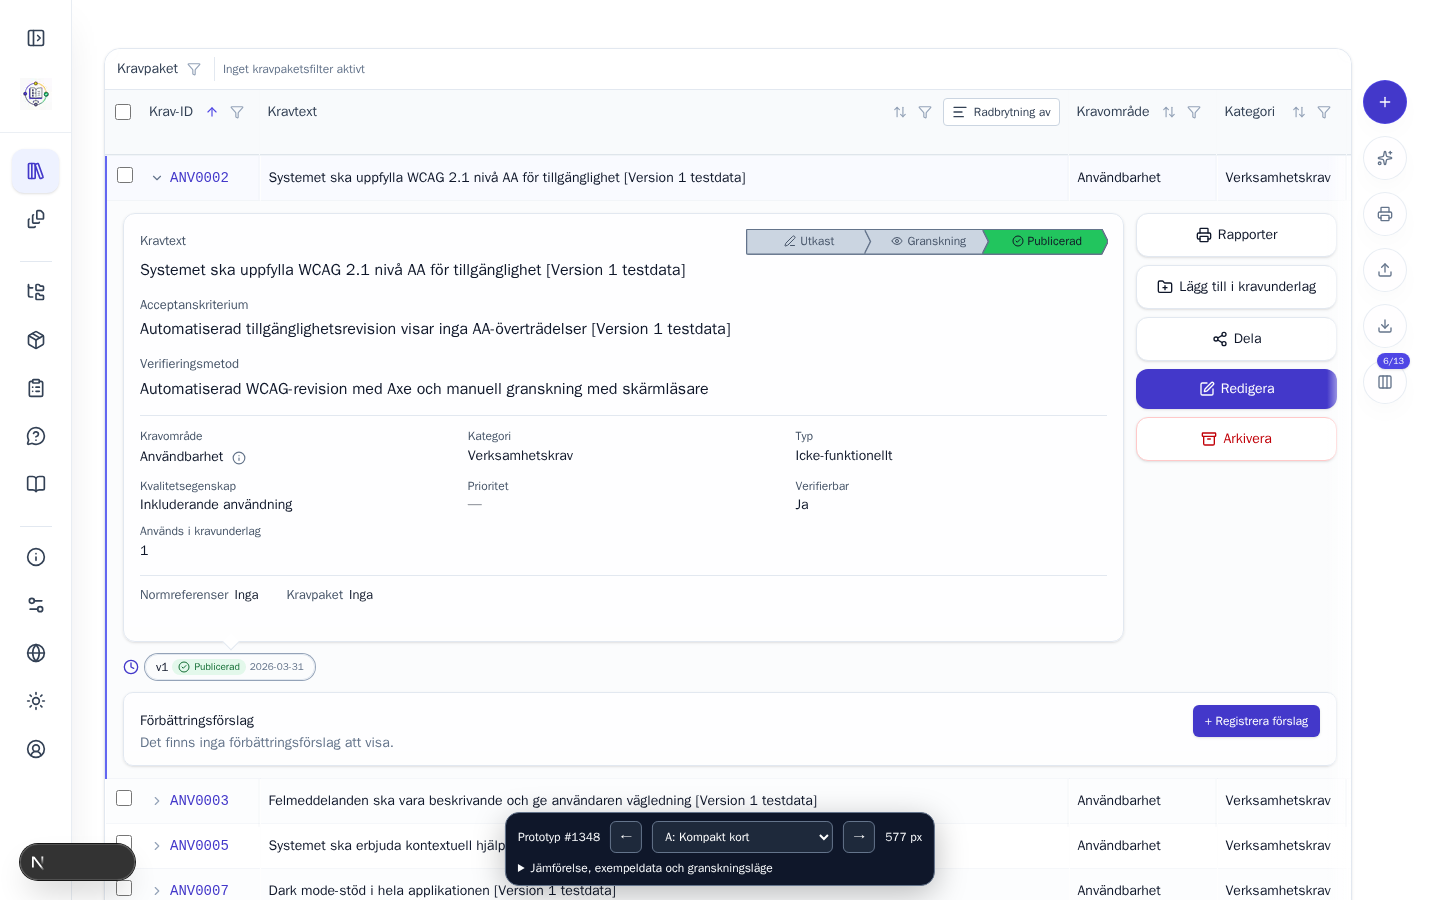
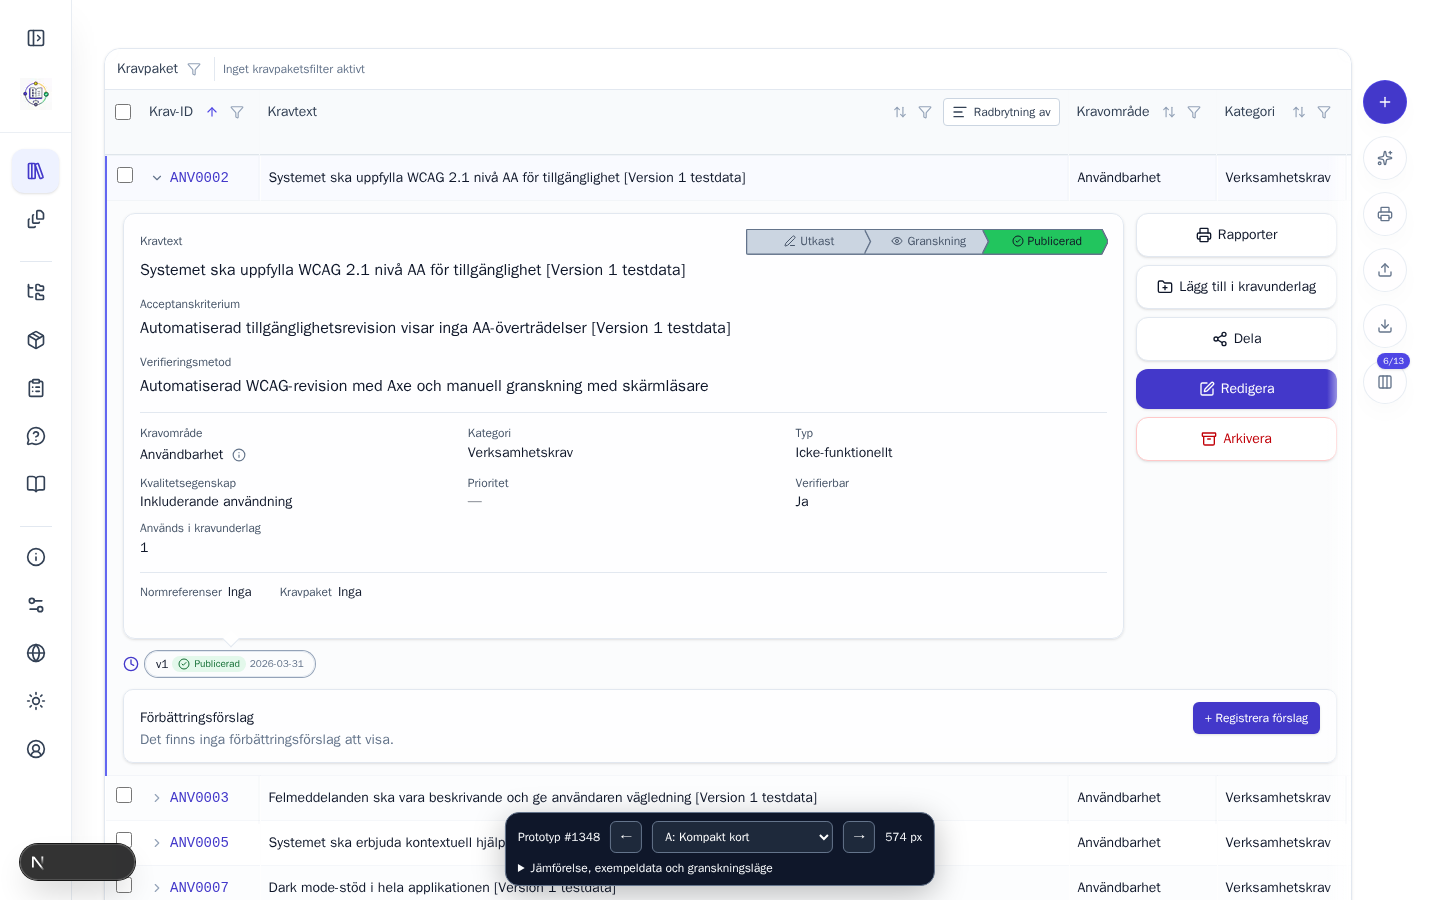
prototype: match all A property labels to metadata label size (#1348)

diff --git a/public/prototype-1348-review/index.html b/public/prototype-1348-review/index.html
@@ -5,7 +5,7 @@
 </style><main>
 <span class="tag">Throwaway prototype · #1348 · A preferred · refinement ready for review</span>
 <h1>Refined A: compact process steps and area information</h1>
-<p>A is the preferred direction. Its original-style arrows now sit beside Requirement text (24 px high, 6 px arrow depth). Click the area info icon to read its description and owner. The short ANV0002 example is now 577 px high with verification method as a separate text section.</p>
+<p>A is the preferred direction. Its original-style arrows now sit beside Requirement text (24 px high, 6 px arrow depth). Click the area info icon to read its description and owner. The short ANV0002 example is now 574 px high with verification method as a separate text section.</p>
 <p>Compare the real current layout with three alternatives, surrounded by the real requirements list and navigation. All variants keep the primary text before metadata, preserve the existing controls and show empty sections explicitly.</p>
 <div class="links"><a href="http://localhost:3001/sv/requirements?variant=A&amp;sections=empty&amp;selected=ANV0002">Open refined A</a><a href="http://localhost:3001/en/requirements/ANV0002/1?variant=A&amp;sections=populated">Open English standalone detail</a></div>
 <p>The live prototype is already running in the prepared workspace. To restart it:</p>
@@ -28,6 +28,9 @@
 <h2>SÄK0010: full-width text beneath the process steps</h2>
 <p>A now removes the inherited 75ch text-width limit. Requirement text, acceptance criteria and verification method fill the card, including below the process steps. Verification method follows acceptance criteria with the same styling and appears only once. <a href="http://localhost:3001/sv/requirements?variant=A&amp;selected=S%C3%84K0010">Open SÄK0010</a> and compare at 1440 and 1920 px. <a href="sak0010-before.json">Before measurements</a> · <a href="sak0010-after.json">After measurements</a> · <a href="verification-method-check.json">Verification method checks</a> · <a href="wrap-stress-verification.json">Width stress checks</a>.</p>
 <div class="captures"><figure><a href="sak0010-1440-before-A.png"><img loading="lazy" src="sak0010-1440-before-A.png" alt="SÄK0010 before: text limited to 720 px"></a><figcaption>Before: reconstructed preceding A layout, text limited to 720 px</figcaption></figure><figure><a href="sak0010-1440-after-A.png"><img loading="lazy" src="sak0010-1440-after-A.png" alt="SÄK0010 after: text uses the full card width"></a><figcaption>After: text uses the full card width</figcaption></figure></div>
+<h2>Consistent property label size</h2>
+<p>All property labels in A now use 12 px, matching Verifierbar: Kravtext, Acceptanskriterium, Verifieringsmetod, Normreferenser, Kravpaket and metadata labels. Compare empty and populated values. <a href="reference-label-verification.json">Label size verification</a>.</p>
+<div class="captures"><figure><a href="reference-labels-empty-A.png"><img loading="lazy" src="reference-labels-empty-A.png" alt="A: 12 px reference and package labels with empty values"></a><figcaption>Empty values: same label size as Verifierbar</figcaption></figure><figure><a href="reference-labels-populated-A.png"><img loading="lazy" src="reference-labels-populated-A.png" alt="A: 12 px reference and package labels with populated values"></a><figcaption>Populated values: same label size as Verifierbar</figcaption></figure></div>
 <h2>Additional visual checks</h2><p>These captures exercise longer content, populated sections, dark theme, expanded navigation, simulated split width and English standalone details. Click an image to see its original size.</p>
 <div class="captures"><figure><a href="area-info-A.png" target="_blank"><img loading="lazy" src="area-info-A.png" alt="A: area description and owner on demand"></a><figcaption>A: area description and owner on demand</figcaption></figure><figure><a href="area-info-dark-A.png" target="_blank"><img loading="lazy" src="area-info-dark-A.png" alt="A: area information in dark theme"></a><figcaption>A: area information in dark theme</figcaption></figure><figure><a href="area-info-375-A.png" target="_blank"><img loading="lazy" src="area-info-375-A.png" alt="A: area information at 375 px"></a><figcaption>A: area information at 375 px</figcaption></figure><figure><a href="area-info-320-A.png" target="_blank"><img loading="lazy" src="area-info-320-A.png" alt="A: area information at 320 px"></a><figcaption>A: area information at 320 px</figcaption></figure><figure><a href="long-dark-expanded-A.png" target="_blank"><img loading="lazy" src="long-dark-expanded-A.png" alt="A: long text, populated sections, dark and expanded navigation"></a><figcaption>A: long text, populated sections, dark and expanded navigation</figcaption></figure><figure><a href="long-dark-expanded-B.png" target="_blank"><img loading="lazy" src="long-dark-expanded-B.png" alt="B: long text, populated sections, dark and expanded navigation"></a><figcaption>B: long text, populated sections, dark and expanded navigation</figcaption></figure><figure><a href="long-dark-expanded-C.png" target="_blank"><img loading="lazy" src="long-dark-expanded-C.png" alt="C: long text, populated sections, dark and expanded navigation"></a><figcaption>C: long text, populated sections, dark and expanded navigation</figcaption></figure><figure><a href="split-dark-expanded-A.png" target="_blank"><img loading="lazy" src="split-dark-expanded-A.png" alt="A: simulated split width"></a><figcaption>A: simulated split width</figcaption></figure><figure><a href="split-dark-expanded-B.png" target="_blank"><img loading="lazy" src="split-dark-expanded-B.png" alt="B: simulated split width"></a><figcaption>B: simulated split width</figcaption></figure><figure><a href="split-dark-expanded-C.png" target="_blank"><img loading="lazy" src="split-dark-expanded-C.png" alt="C: simulated split width"></a><figcaption>C: simulated split width</figcaption></figure><figure><a href="standalone-en-A.png" target="_blank"><img loading="lazy" src="standalone-en-A.png" alt="A: English standalone detail"></a><figcaption>A: English standalone detail</figcaption></figure><figure><a href="mobile-en-A.png" target="_blank"><img loading="lazy" src="mobile-en-A.png" alt="A: English standalone at 375 px"></a><figcaption>A: English standalone at 375 px</figcaption></figure></div>
 <h2>What this prototype establishes</h2><p>The alternatives reduce the short example's footprint and make their layout tradeoffs visible. A is the preferred direction. Review its compact ordinary arrows and area information panel; the final implementation should then receive the issue's production tests and documentation.</p>

diff --git a/public/prototype-1348-review/review.js b/public/prototype-1348-review/review.js
@@ -1,5 +1,5 @@
 const data = {
-  capturedAt: '2026-09-12T19:27:37.167Z',
+  capturedAt: '2026-09-12T19:32:44.446Z',
   baseCommit: '2d9ad75f',
   results: [
     {
@@ -49,8 +49,8 @@ const data = {
       scenario:
         'actual text, empty sections, light theme, collapsed navigation',
       requirement: 'ANV0002:v1',
-      detailHeight: 577,
-      cardHeight: 429,
+      detailHeight: 574,
+      cardHeight: 426,
       suggestionsHeight: 74,
       detailTop: 201,
       steps: [
@@ -202,8 +202,8 @@ const data = {
       scenario:
         'actual text, empty sections, light theme, collapsed navigation',
       requirement: 'ANV0002:v1',
-      detailHeight: 577,
-      cardHeight: 429,
+      detailHeight: 574,
+      cardHeight: 426,
       suggestionsHeight: 74,
       detailTop: 201,
       steps: [

diff --git a/app/[locale]/requirements/_prototype-1348/prototype.css b/app/[locale]/requirements/_prototype-1348/prototype.css
@@ -110,6 +110,9 @@ html:where([data-detail-prototype]:not([data-detail-prototype="baseline"]))
   font-weight: 600;
   color: var(--prototype-muted);
 }
+.prototype-variant-a h3 {
+  font-size: 12px;
+}
 .prototype-primary-text {
   font-size: 16px;
   line-height: 1.5;

diff --git a/app/[locale]/requirements/_prototype-1348/README.md b/app/[locale]/requirements/_prototype-1348/README.md
@@ -95,6 +95,7 @@ For the requested sizes, use the browser's responsive viewport controls at
 | Full-width primary text in A | Open SÄK0010 in A at 1440 px and 1920 px. Requirement text, acceptance criteria and verification method use the full inner card width, including beneath the process steps. Compare the SÄK0010 before/after captures in the gallery. At narrow widths, text wraps without horizontal overflow. |
 | Verification method as a text section in A | Open SÄK0010. Verify the order: requirement text, acceptance criteria, verification method, metadata. The verification method has the same heading/body styles as acceptance criteria and appears once, outside the metadata grid. Compare desktop and mobile wrapping. |
 | More compact metadata | Inspect all metadata values, verification method and specification count. A uses a compact grid with area owner inside the info panel; B uses inline pairs; C uses a ruled definition table. |
+| Consistent property label size in A | Compare Kravtext, Acceptanskriterium, Verifieringsmetod, Normreferenser and Kravpaket with Verifierbar and the other metadata labels: all use 12 px. Check empty and populated sections in the gallery or live view. |
 | Compact empty references and packages | Choose empty sections. Both labels and their empty information stay visible on compact rows. Choose populated sections and hover the package to inspect its existing purpose/scope tooltip. |
 | Compact empty improvement suggestions | Choose empty sections and compare the card. Its title, empty information and registration button remain. Choose populated sections to inspect the existing suggestion pill and actions. |
 | Compact original-style process steps in A | On desktop, inspect the steps to the right of Kravtext on the same heading row. The original outline, icons and configured active color remain; height is 24 px and arrow depth 6 px (baseline: 40 px and 14 px). On narrow cards the steps wrap below the heading. B/C retain their 30 px flat strip. |
@@ -115,7 +116,7 @@ For the requested sizes, use the browser's responsive viewport controls at
 
 The user prefers A and asks for smaller ordinary process arrows beside
 Kravtext, plus an area info icon with description and owner in a panel.
-The revised desktop example is **577 px** high, compared with **588 px** for
+The revised desktop example is **574 px** high, compared with **588 px** for
 A before this refinement and **824 px** for the baseline. Both desktop sizes
 use the same actual ANV0002 text and forced empty sections.
 
